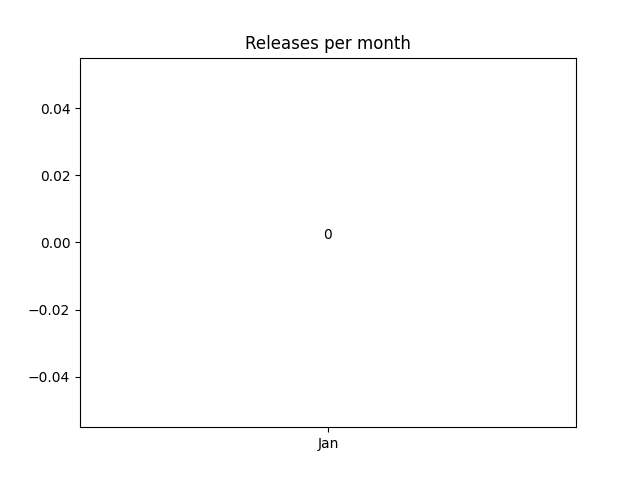
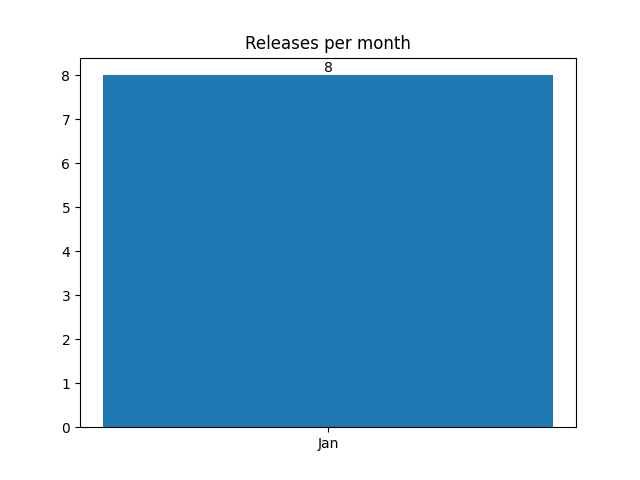
Apply automatic changes

diff --git a/docs/analytics.html b/docs/analytics.html
@@ -69,8 +69,8 @@ td .material-icons { display:inline-flex; vertical-align: top; font-size:1.1rem;
 						</tr>
 						<tr>
 							<td>Jan</td>
-							<td>0</td>
-							<td>0</td>
+							<td>5</td>
+							<td>51</td>
 						</tr>
 					</table>
 				</div>
@@ -90,7 +90,7 @@ td .material-icons { display:inline-flex; vertical-align: top; font-size:1.1rem;
 							<td>
 								<a href="http://github.com/notofonts/latin-greek-cyrillic">latin-greek-cyrillic</a>
 							</td>
-							<td>242</td>
+							<td>212</td>
 						</tr>
 						<tr>
 							<td>
@@ -100,15 +100,15 @@ td .material-icons { display:inline-flex; vertical-align: top; font-size:1.1rem;
 						</tr>
 						<tr>
 							<td>
-								<a href="http://github.com/notofonts/arabic">arabic</a>
+								<a href="http://github.com/notofonts/symbols">symbols</a>
 							</td>
 							<td>31</td>
 						</tr>
 						<tr>
 							<td>
-								<a href="http://github.com/notofonts/symbols">symbols</a>
+								<a href="http://github.com/notofonts/arabic">arabic</a>
 							</td>
-							<td>30</td>
+							<td>29</td>
 						</tr>
 						<tr>
 							<td>
@@ -124,15 +124,15 @@ td .material-icons { display:inline-flex; vertical-align: top; font-size:1.1rem;
 						</tr>
 						<tr>
 							<td>
-								<a href="http://github.com/notofonts/nastaliq">nastaliq</a>
+								<a href="http://github.com/notofonts/math">math</a>
 							</td>
 							<td>17</td>
 						</tr>
 						<tr>
 							<td>
-								<a href="http://github.com/notofonts/math">math</a>
+								<a href="http://github.com/notofonts/nastaliq">nastaliq</a>
 							</td>
-							<td>16</td>
+							<td>17</td>
 						</tr>
 						<tr>
 							<td>
@@ -161,25 +161,25 @@ td .material-icons { display:inline-flex; vertical-align: top; font-size:1.1rem;
 				<tr>
 					<td>1</td>
 					<td>
-						<a href="http://github.com/notofonts/avestan">avestan</a>,  						<a href="http://github.com/notofonts/bamum">bamum</a>,  						<a href="http://github.com/notofonts/bassa-vah">bassa-vah</a>,  						<a href="http://github.com/notofonts/carian">carian</a>,  						<a href="http://github.com/notofonts/deseret">deseret</a>,  						<a href="http://github.com/notofonts/gothic">gothic</a>,  						<a href="http://github.com/notofonts/hanunoo">hanunoo</a>,  						<a href="http://github.com/notofonts/inscriptional-parthian">inscriptional-parthian</a>,  						<a href="http://github.com/notofonts/linear-a">linear-a</a>,  						<a href="http://github.com/notofonts/lisu">lisu</a>,  						<a href="http://github.com/notofonts/mahajani">mahajani</a>,  						<a href="http://github.com/notofonts/masaram-gondi">masaram-gondi</a>,  						<a href="http://github.com/notofonts/meetei-mayek">meetei-mayek</a>,  						<a href="http://github.com/notofonts/mende-kikakui">mende-kikakui</a>,  						<a href="http://github.com/notofonts/miao">miao</a>,  						<a href="http://github.com/notofonts/newa">newa</a>,  						<a href="http://github.com/notofonts/old-italic">old-italic</a>,  						<a href="http://github.com/notofonts/old-persian">old-persian</a>,  						<a href="http://github.com/notofonts/old-uyghur">old-uyghur</a>,  						<a href="http://github.com/notofonts/phoenician">phoenician</a>,  						<a href="http://github.com/notofonts/runic">runic</a>,  						<a href="http://github.com/notofonts/saurashtra">saurashtra</a>,  						<a href="http://github.com/notofonts/sinhala">sinhala</a>,  						<a href="http://github.com/notofonts/sogdian">sogdian</a>,  						<a href="http://github.com/notofonts/tai-le">tai-le</a>,  						<a href="http://github.com/notofonts/thaana">thaana</a>,  						<a href="http://github.com/notofonts/wancho">wancho</a>,  						<a href="http://github.com/notofonts/warang-citi">warang-citi</a> 
+						<a href="http://github.com/notofonts/bamum">bamum</a>,  						<a href="http://github.com/notofonts/deseret">deseret</a>,  						<a href="http://github.com/notofonts/gothic">gothic</a>,  						<a href="http://github.com/notofonts/hanunoo">hanunoo</a>,  						<a href="http://github.com/notofonts/inscriptional-parthian">inscriptional-parthian</a>,  						<a href="http://github.com/notofonts/kharoshthi">kharoshthi</a>,  						<a href="http://github.com/notofonts/khudawadi">khudawadi</a>,  						<a href="http://github.com/notofonts/linear-a">linear-a</a>,  						<a href="http://github.com/notofonts/lisu">lisu</a>,  						<a href="http://github.com/notofonts/mahajani">mahajani</a>,  						<a href="http://github.com/notofonts/masaram-gondi">masaram-gondi</a>,  						<a href="http://github.com/notofonts/meetei-mayek">meetei-mayek</a>,  						<a href="http://github.com/notofonts/mende-kikakui">mende-kikakui</a>,  						<a href="http://github.com/notofonts/miao">miao</a>,  						<a href="http://github.com/notofonts/newa">newa</a>,  						<a href="http://github.com/notofonts/old-italic">old-italic</a>,  						<a href="http://github.com/notofonts/old-persian">old-persian</a>,  						<a href="http://github.com/notofonts/old-uyghur">old-uyghur</a>,  						<a href="http://github.com/notofonts/phoenician">phoenician</a>,  						<a href="http://github.com/notofonts/runic">runic</a>,  						<a href="http://github.com/notofonts/saurashtra">saurashtra</a>,  						<a href="http://github.com/notofonts/sinhala">sinhala</a>,  						<a href="http://github.com/notofonts/sogdian">sogdian</a>,  						<a href="http://github.com/notofonts/tai-le">tai-le</a>,  						<a href="http://github.com/notofonts/thaana">thaana</a>,  						<a href="http://github.com/notofonts/wancho">wancho</a>,  						<a href="http://github.com/notofonts/warang-citi">warang-citi</a> 
 					</td>
 				</tr>
 				<tr>
 					<td>2</td>
 					<td>
-						<a href="http://github.com/notofonts/cham">cham</a>,  						<a href="http://github.com/notofonts/chorasmian">chorasmian</a>,  						<a href="http://github.com/notofonts/coptic">coptic</a>,  						<a href="http://github.com/notofonts/elbasan">elbasan</a>,  						<a href="http://github.com/notofonts/elymaic">elymaic</a>,  						<a href="http://github.com/notofonts/georgian">georgian</a>,  						<a href="http://github.com/notofonts/hanifi-rohingya">hanifi-rohingya</a>,  						<a href="http://github.com/notofonts/inscriptional-pahlavi">inscriptional-pahlavi</a>,  						<a href="http://github.com/notofonts/lao">lao</a>,  						<a href="http://github.com/notofonts/limbu">limbu</a>,  						<a href="http://github.com/notofonts/lydian">lydian</a>,  						<a href="http://github.com/notofonts/marchen">marchen</a>,  						<a href="http://github.com/notofonts/meroitic">meroitic</a>,  						<a href="http://github.com/notofonts/multani">multani</a>,  						<a href="http://github.com/notofonts/nko">nko</a>,  						<a href="http://github.com/notofonts/old-hungarian-ui">old-hungarian-ui</a>,  						<a href="http://github.com/notofonts/old-turkic">old-turkic</a>,  						<a href="http://github.com/notofonts/pahawh-hmong">pahawh-hmong</a>,  						<a href="http://github.com/notofonts/phags-pa">phags-pa</a>,  						<a href="http://github.com/notofonts/psalter-pahlavi">psalter-pahlavi</a>,  						<a href="http://github.com/notofonts/samaritan">samaritan</a>,  						<a href="http://github.com/notofonts/sharada">sharada</a>,  						<a href="http://github.com/notofonts/yezidi">yezidi</a>,  						<a href="http://github.com/notofonts/zanabazar-square">zanabazar-square</a> 
+						<a href="http://github.com/notofonts/cham">cham</a>,  						<a href="http://github.com/notofonts/chorasmian">chorasmian</a>,  						<a href="http://github.com/notofonts/coptic">coptic</a>,  						<a href="http://github.com/notofonts/elbasan">elbasan</a>,  						<a href="http://github.com/notofonts/elymaic">elymaic</a>,  						<a href="http://github.com/notofonts/georgian">georgian</a>,  						<a href="http://github.com/notofonts/hanifi-rohingya">hanifi-rohingya</a>,  						<a href="http://github.com/notofonts/inscriptional-pahlavi">inscriptional-pahlavi</a>,  						<a href="http://github.com/notofonts/lao">lao</a>,  						<a href="http://github.com/notofonts/limbu">limbu</a>,  						<a href="http://github.com/notofonts/lydian">lydian</a>,  						<a href="http://github.com/notofonts/marchen">marchen</a>,  						<a href="http://github.com/notofonts/meroitic">meroitic</a>,  						<a href="http://github.com/notofonts/multani">multani</a>,  						<a href="http://github.com/notofonts/nko">nko</a>,  						<a href="http://github.com/notofonts/old-hungarian-ui">old-hungarian-ui</a>,  						<a href="http://github.com/notofonts/old-turkic">old-turkic</a>,  						<a href="http://github.com/notofonts/pahawh-hmong">pahawh-hmong</a>,  						<a href="http://github.com/notofonts/phags-pa">phags-pa</a>,  						<a href="http://github.com/notofonts/psalter-pahlavi">psalter-pahlavi</a>,  						<a href="http://github.com/notofonts/samaritan">samaritan</a>,  						<a href="http://github.com/notofonts/tangsa">tangsa</a>,  						<a href="http://github.com/notofonts/yezidi">yezidi</a>,  						<a href="http://github.com/notofonts/zanabazar-square">zanabazar-square</a> 
 					</td>
 				</tr>
 				<tr>
 					<td>3</td>
 					<td>
-						<a href="http://github.com/notofonts/Cousine">Cousine</a>,  						<a href="http://github.com/notofonts/Tinos">Tinos</a>,  						<a href="http://github.com/notofonts/ahom">ahom</a>,  						<a href="http://github.com/notofonts/ethiopic">ethiopic</a>,  						<a href="http://github.com/notofonts/glagolitic">glagolitic</a>,  						<a href="http://github.com/notofonts/gunjala-gondi">gunjala-gondi</a>,  						<a href="http://github.com/notofonts/kharoshthi">kharoshthi</a>,  						<a href="http://github.com/notofonts/mandaic">mandaic</a>,  						<a href="http://github.com/notofonts/nyiakeng-puachue-hmong">nyiakeng-puachue-hmong</a>,  						<a href="http://github.com/notofonts/old-hungarian">old-hungarian</a>,  						<a href="http://github.com/notofonts/old-sogdian">old-sogdian</a>,  						<a href="http://github.com/notofonts/rejang">rejang</a>,  						<a href="http://github.com/notofonts/soyombo">soyombo</a>,  						<a href="http://github.com/notofonts/tagalog">tagalog</a>,  						<a href="http://github.com/notofonts/tai-viet">tai-viet</a>,  						<a href="http://github.com/notofonts/tangsa">tangsa</a> 
+						<a href="http://github.com/notofonts/Cousine">Cousine</a>,  						<a href="http://github.com/notofonts/Tinos">Tinos</a>,  						<a href="http://github.com/notofonts/ethiopic">ethiopic</a>,  						<a href="http://github.com/notofonts/glagolitic">glagolitic</a>,  						<a href="http://github.com/notofonts/gunjala-gondi">gunjala-gondi</a>,  						<a href="http://github.com/notofonts/mandaic">mandaic</a>,  						<a href="http://github.com/notofonts/nushu">nushu</a>,  						<a href="http://github.com/notofonts/nyiakeng-puachue-hmong">nyiakeng-puachue-hmong</a>,  						<a href="http://github.com/notofonts/old-hungarian">old-hungarian</a>,  						<a href="http://github.com/notofonts/old-sogdian">old-sogdian</a>,  						<a href="http://github.com/notofonts/rejang">rejang</a>,  						<a href="http://github.com/notofonts/sharada">sharada</a>,  						<a href="http://github.com/notofonts/soyombo">soyombo</a>,  						<a href="http://github.com/notofonts/tagalog">tagalog</a>,  						<a href="http://github.com/notofonts/tai-viet">tai-viet</a> 
 					</td>
 				</tr>
 				<tr>
 					<td>4</td>
 					<td>
-						<a href="http://github.com/notofonts/armenian">armenian</a>,  						<a href="http://github.com/notofonts/caucasian-albanian">caucasian-albanian</a>,  						<a href="http://github.com/notofonts/dogra">dogra</a>,  						<a href="http://github.com/notofonts/duployan">duployan</a>,  						<a href="http://github.com/notofonts/grantha">grantha</a>,  						<a href="http://github.com/notofonts/khudawadi">khudawadi</a>,  						<a href="http://github.com/notofonts/manichaean">manichaean</a>,  						<a href="http://github.com/notofonts/nandinagari">nandinagari</a>,  						<a href="http://github.com/notofonts/nushu">nushu</a>,  						<a href="http://github.com/notofonts/oriya">oriya</a>,  						<a href="http://github.com/notofonts/sundanese">sundanese</a>,  						<a href="http://github.com/notofonts/tai-tham">tai-tham</a>,  						<a href="http://github.com/notofonts/takri">takri</a>,  						<a href="http://github.com/notofonts/telugu">telugu</a> 
+						<a href="http://github.com/notofonts/ahom">ahom</a>,  						<a href="http://github.com/notofonts/armenian">armenian</a>,  						<a href="http://github.com/notofonts/caucasian-albanian">caucasian-albanian</a>,  						<a href="http://github.com/notofonts/dogra">dogra</a>,  						<a href="http://github.com/notofonts/duployan">duployan</a>,  						<a href="http://github.com/notofonts/grantha">grantha</a>,  						<a href="http://github.com/notofonts/manichaean">manichaean</a>,  						<a href="http://github.com/notofonts/nandinagari">nandinagari</a>,  						<a href="http://github.com/notofonts/oriya">oriya</a>,  						<a href="http://github.com/notofonts/sundanese">sundanese</a>,  						<a href="http://github.com/notofonts/tai-tham">tai-tham</a>,  						<a href="http://github.com/notofonts/takri">takri</a>,  						<a href="http://github.com/notofonts/telugu">telugu</a> 
 					</td>
 				</tr>
 				<tr>
@@ -191,7 +191,7 @@ td .material-icons { display:inline-flex; vertical-align: top; font-size:1.1rem;
 				<tr>
 					<td>6</td>
 					<td>
-						<a href="http://github.com/notofonts/adlam">adlam</a>,  						<a href="http://github.com/notofonts/brahmi">brahmi</a>,  						<a href="http://github.com/notofonts/kaithi">kaithi</a>,  						<a href="http://github.com/notofonts/khojki">khojki</a>,  						<a href="http://github.com/notofonts/malayalam">malayalam</a>,  						<a href="http://github.com/notofonts/mongolian">mongolian</a>,  						<a href="http://github.com/notofonts/sign-writing">sign-writing</a> 
+						<a href="http://github.com/notofonts/adlam">adlam</a>,  						<a href="http://github.com/notofonts/brahmi">brahmi</a>,  						<a href="http://github.com/notofonts/kaithi">kaithi</a>,  						<a href="http://github.com/notofonts/khojki">khojki</a>,  						<a href="http://github.com/notofonts/malayalam">malayalam</a>,  						<a href="http://github.com/notofonts/mongolian">mongolian</a>,  						<a href="http://github.com/notofonts/sign-writing">sign-writing</a>,  						<a href="http://github.com/notofonts/syriac">syriac</a> 
 					</td>
 				</tr>
 				<tr>
@@ -227,6 +227,30 @@ td .material-icons { display:inline-flex; vertical-align: top; font-size:1.1rem;
 							<th>Month</th>
 							<th>Release</th>
 						</tr>
+						<tr>
+							<td>Jan</td>
+							<td id="month-Jan">
+								<button
+									class="btn btn-link collapsed"
+									data-toggle="collapse"
+									data-target="#month-Jan .releases"
+								>
+									<span class="material-icons"></span>
+									8 releases
+								</button>
+								<ul class="releases collapse">
+									<li><a href="https://github.com/notofonts/avestan/releases/tag/NotoSansAvestan-v2.003">NotoSansAvestan-v2.003</a></li>
+									<li><a href="https://github.com/notofonts/carian/releases/tag/NotoSansCarian-v2.002">NotoSansCarian-v2.002</a></li>
+									<li><a href="https://github.com/notofonts/kharoshthi/releases/tag/NotoSansKharoshthi-v2.004">NotoSansKharoshthi-v2.004</a></li>
+									<li><a href="https://github.com/notofonts/nushu/releases/tag/NotoTraditionalNushu-v2.003">NotoTraditionalNushu-v2.003</a></li>
+									<li><a href="https://github.com/notofonts/syriac/releases/tag/NotoSansSyriacWestern-v3.000">NotoSansSyriacWestern-v3.000</a></li>
+									<li><a href="https://github.com/notofonts/syriac/releases/tag/NotoSansSyriac-v3.000">NotoSansSyriac-v3.000</a></li>
+									<li><a href="https://github.com/notofonts/syriac/releases/tag/NotoSansSyriacEastern-v3.000">NotoSansSyriacEastern-v3.000</a></li>
+									<li><a href="https://github.com/notofonts/syriac/releases/tag/NotoSansSyriacEastern-v3.001">NotoSansSyriacEastern-v3.001</a></li>
+								</ul>
+							</td>
+						</tr>
+
 					</table>
 				</div>
 				<div class="col">
